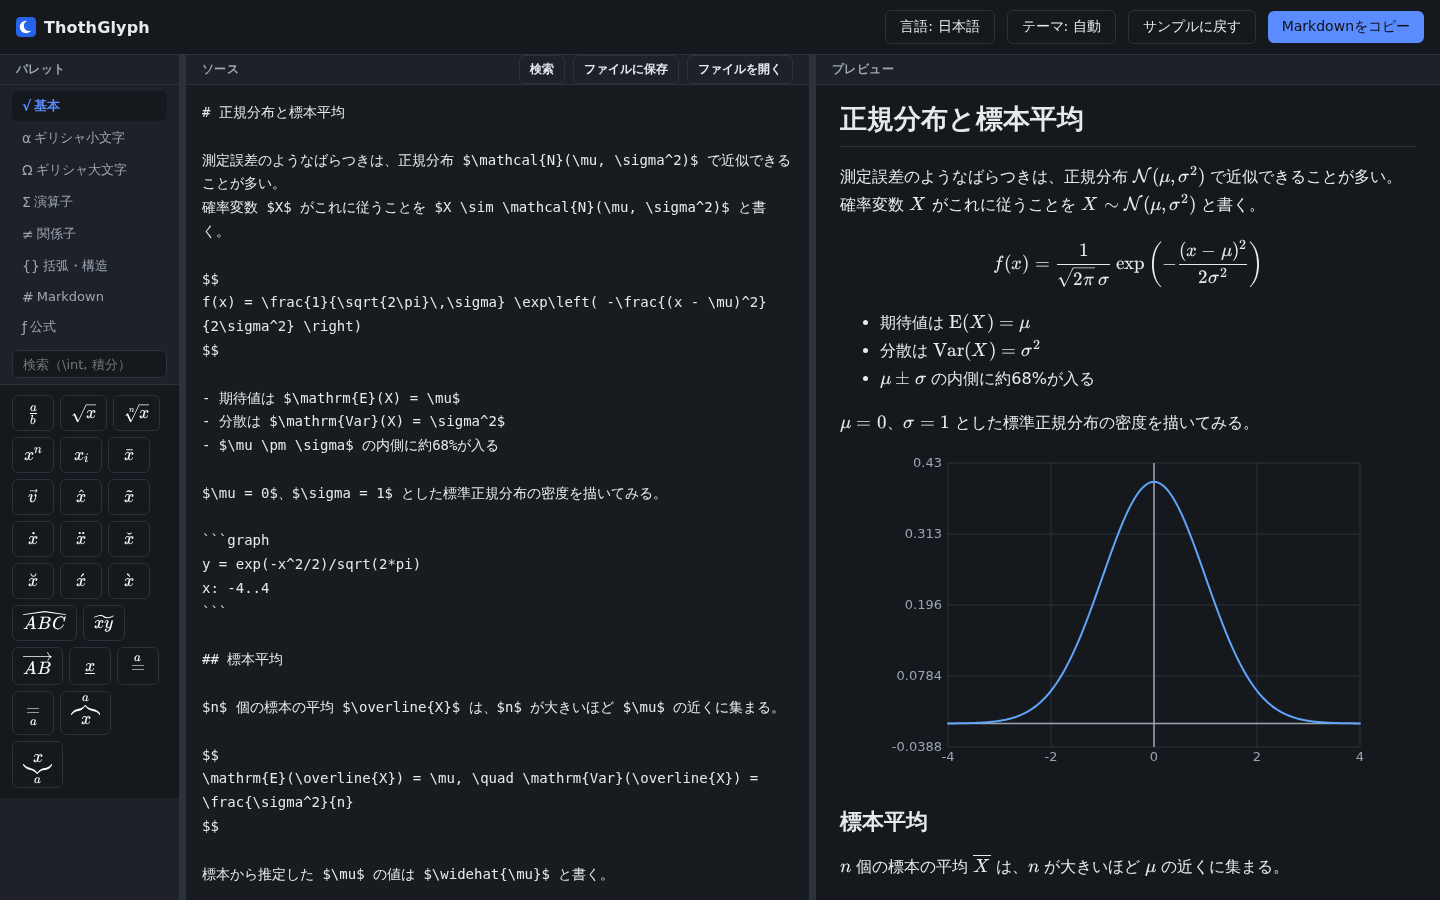
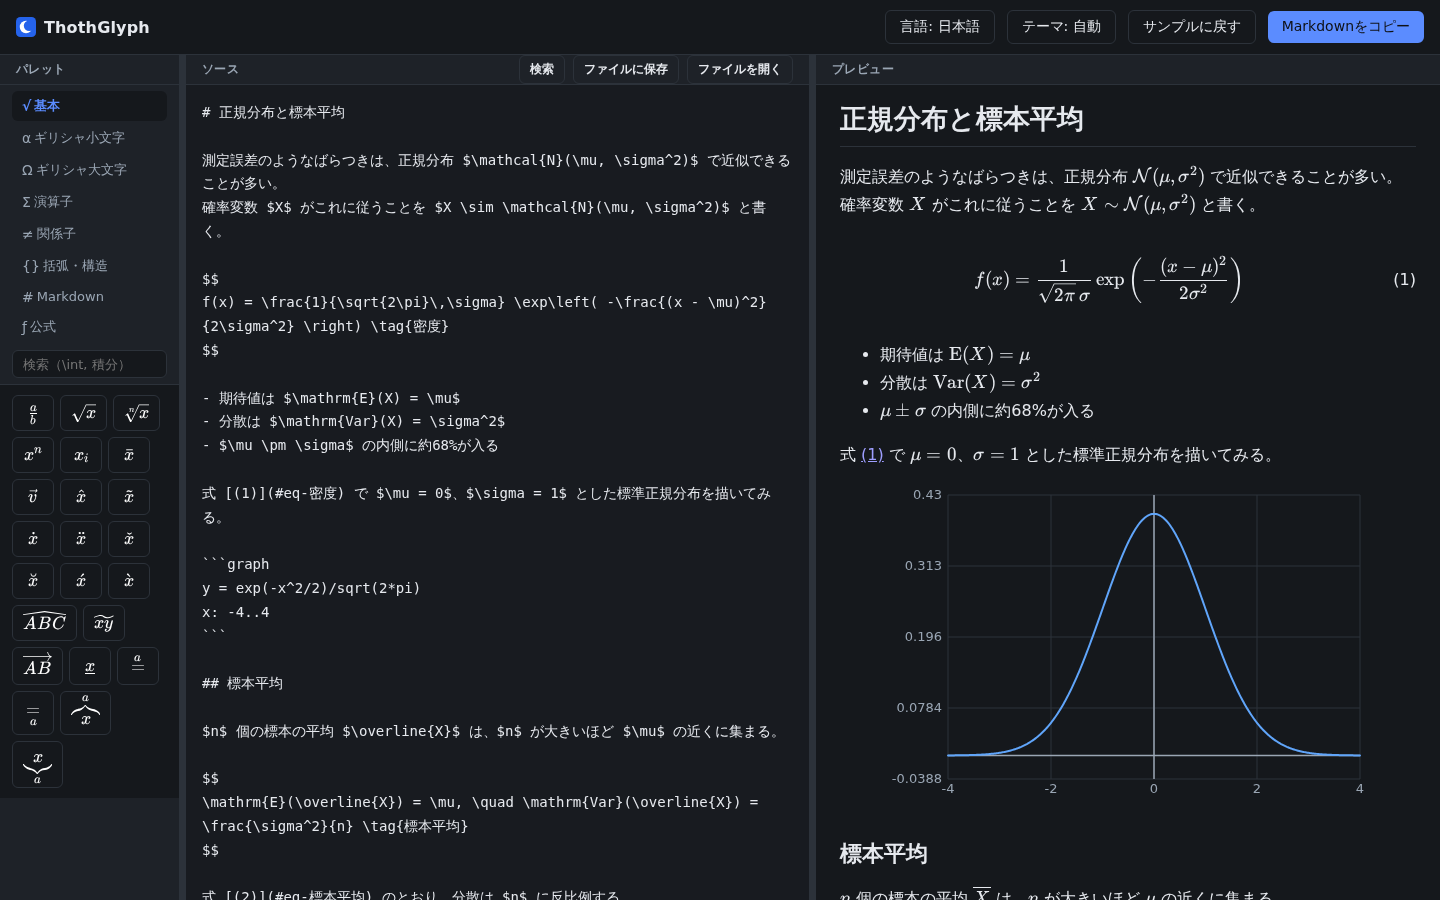
#0078 サンプル文書に式の番号と参照を入れる
0044で入れた記法はパレットから入れられない（#0077）ので、サンプルが
唯一の手本になる。既存のブロック数式2つに \tag{密度} \tag{標本平均} を
付け、すでにある2つの文を書き換えて [(1)](#eq-密度) 形式の参照を入れた
（番号のためだけの文は足さない）。日本語版のラベルを日本語にしたのは、
名前を自由に付けてよいことを見せるため。

- math-click の期待値を直した（2つ目のブロック数式に \tag が付いた）
- initial 区分に5件足した（番号2つ・参照2つ・参照をたどる・幅360px）
- verify-file-build の数式は16個から17個へ。足した文の $n$ のぶんで、
  \tag と参照そのものは数式を増やしていない
- READMEのスクリーンショット3枚を撮り直した（番号が写るのは広い2枚。
  phone.png は初期位置に式が入らない）

全494件OK。

diff --git a/src/sampleDocument.ts b/src/sampleDocument.ts
@@ -7,6 +7,9 @@ import type { Lang } from './lib/i18n'
  * 記号62→150件・公式30→75件になったのに、サンプルには0064以降に足した記号が
  * 1つも出てこなかったため。
  *
+ * 0078で式の番号（`\\tag`）と参照（`[(1)](#eq-…)`）を入れた。記法を手で書く
+ * 前提なので（パレットからは入れられない。0077）、ここが唯一の手本になる。
+ *
  * **中身を変えるときは、先頭行とファイル名に依存した検証9件を直すこと**
  * （`autosave` 3件・`i18n` 2件・`file-save` 4件）。グラフの存在を見る4件と
  * 「上のパレット」という語がないことを見る2件もあるので、**グラフは1つ入れ、
@@ -18,14 +21,14 @@ const japanese = `# 正規分布と標本平均
 確率変数 $X$ がこれに従うことを $X \\sim \\mathcal{N}(\\mu, \\sigma^2)$ と書く。
 
 $$
-f(x) = \\frac{1}{\\sqrt{2\\pi}\\,\\sigma} \\exp\\left( -\\frac{(x - \\mu)^2}{2\\sigma^2} \\right)
+f(x) = \\frac{1}{\\sqrt{2\\pi}\\,\\sigma} \\exp\\left( -\\frac{(x - \\mu)^2}{2\\sigma^2} \\right) \\tag{密度}
 $$
 
 - 期待値は $\\mathrm{E}(X) = \\mu$
 - 分散は $\\mathrm{Var}(X) = \\sigma^2$
 - $\\mu \\pm \\sigma$ の内側に約68%が入る
 
-$\\mu = 0$、$\\sigma = 1$ とした標準正規分布の密度を描いてみる。
+式 [(1)](#eq-密度) で $\\mu = 0$、$\\sigma = 1$ とした標準正規分布を描いてみる。
 
 \`\`\`graph
 y = exp(-x^2/2)/sqrt(2*pi)
@@ -37,9 +40,10 @@ x: -4..4
 $n$ 個の標本の平均 $\\overline{X}$ は、$n$ が大きいほど $\\mu$ の近くに集まる。
 
 $$
-\\mathrm{E}(\\overline{X}) = \\mu, \\quad \\mathrm{Var}(\\overline{X}) = \\frac{\\sigma^2}{n}
+\\mathrm{E}(\\overline{X}) = \\mu, \\quad \\mathrm{Var}(\\overline{X}) = \\frac{\\sigma^2}{n} \\tag{標本平均}
 $$
 
+式 [(2)](#eq-標本平均) のとおり、分散は $n$ に反比例する。
 標本から推定した $\\mu$ の値は $\\widehat{\\mu}$ と書く。
 
 パレットのボタンを押すと、カーソル位置に数式コマンドが入ります。
@@ -52,14 +56,14 @@ Spread such as measurement error is often approximated by a normal distribution 
 We write $X \\sim \\mathcal{N}(\\mu, \\sigma^2)$ to say that $X$ follows it.
 
 $$
-f(x) = \\frac{1}{\\sqrt{2\\pi}\\,\\sigma} \\exp\\left( -\\frac{(x - \\mu)^2}{2\\sigma^2} \\right)
+f(x) = \\frac{1}{\\sqrt{2\\pi}\\,\\sigma} \\exp\\left( -\\frac{(x - \\mu)^2}{2\\sigma^2} \\right) \\tag{density}
 $$
 
 - The mean is $\\mathrm{E}(X) = \\mu$
 - The variance is $\\mathrm{Var}(X) = \\sigma^2$
 - About 68% of the mass lies within $\\mu \\pm \\sigma$
 
-Here is the standard normal density, with $\\mu = 0$ and $\\sigma = 1$.
+Here is equation [(1)](#eq-density) with $\\mu = 0$ and $\\sigma = 1$.
 
 \`\`\`graph
 y = exp(-x^2/2)/sqrt(2*pi)
@@ -71,9 +75,10 @@ x: -4..4
 The mean $\\overline{X}$ of $n$ samples clusters closer to $\\mu$ as $n$ grows.
 
 $$
-\\mathrm{E}(\\overline{X}) = \\mu, \\quad \\mathrm{Var}(\\overline{X}) = \\frac{\\sigma^2}{n}
+\\mathrm{E}(\\overline{X}) = \\mu, \\quad \\mathrm{Var}(\\overline{X}) = \\frac{\\sigma^2}{n} \\tag{samplemean}
 $$
 
+As [(2)](#eq-samplemean) shows, the variance is inversely proportional to $n$.
 An estimate of $\\mu$ from a sample is written $\\widehat{\\mu}$.
 
 Press a palette button to insert a command at the cursor.

diff --git a/dist-file/app.js b/dist-file/app.js
@@ -344,14 +344,14 @@ Please report this to https://github.com/markedjs/marked.`,e){let e=`<p>An error
 確率変数 $X$ がこれに従うことを $X \\sim \\mathcal{N}(\\mu, \\sigma^2)$ と書く。
 
 $$
-f(x) = \\frac{1}{\\sqrt{2\\pi}\\,\\sigma} \\exp\\left( -\\frac{(x - \\mu)^2}{2\\sigma^2} \\right)
+f(x) = \\frac{1}{\\sqrt{2\\pi}\\,\\sigma} \\exp\\left( -\\frac{(x - \\mu)^2}{2\\sigma^2} \\right) \\tag{密度}
 $$
 
 - 期待値は $\\mathrm{E}(X) = \\mu$
 - 分散は $\\mathrm{Var}(X) = \\sigma^2$
 - $\\mu \\pm \\sigma$ の内側に約68%が入る
 
-$\\mu = 0$、$\\sigma = 1$ とした標準正規分布の密度を描いてみる。
+式 [(1)](#eq-密度) で $\\mu = 0$、$\\sigma = 1$ とした標準正規分布を描いてみる。
 
 \`\`\`graph
 y = exp(-x^2/2)/sqrt(2*pi)
@@ -363,9 +363,10 @@ x: -4..4
 $n$ 個の標本の平均 $\\overline{X}$ は、$n$ が大きいほど $\\mu$ の近くに集まる。
 
 $$
-\\mathrm{E}(\\overline{X}) = \\mu, \\quad \\mathrm{Var}(\\overline{X}) = \\frac{\\sigma^2}{n}
+\\mathrm{E}(\\overline{X}) = \\mu, \\quad \\mathrm{Var}(\\overline{X}) = \\frac{\\sigma^2}{n} \\tag{標本平均}
 $$
 
+式 [(2)](#eq-標本平均) のとおり、分散は $n$ に反比例する。
 標本から推定した $\\mu$ の値は $\\widehat{\\mu}$ と書く。
 
 パレットのボタンを押すと、カーソル位置に数式コマンドが入ります。
@@ -375,14 +376,14 @@ Spread such as measurement error is often approximated by a normal distribution 
 We write $X \\sim \\mathcal{N}(\\mu, \\sigma^2)$ to say that $X$ follows it.
 
 $$
-f(x) = \\frac{1}{\\sqrt{2\\pi}\\,\\sigma} \\exp\\left( -\\frac{(x - \\mu)^2}{2\\sigma^2} \\right)
+f(x) = \\frac{1}{\\sqrt{2\\pi}\\,\\sigma} \\exp\\left( -\\frac{(x - \\mu)^2}{2\\sigma^2} \\right) \\tag{density}
 $$
 
 - The mean is $\\mathrm{E}(X) = \\mu$
 - The variance is $\\mathrm{Var}(X) = \\sigma^2$
 - About 68% of the mass lies within $\\mu \\pm \\sigma$
 
-Here is the standard normal density, with $\\mu = 0$ and $\\sigma = 1$.
+Here is equation [(1)](#eq-density) with $\\mu = 0$ and $\\sigma = 1$.
 
 \`\`\`graph
 y = exp(-x^2/2)/sqrt(2*pi)
@@ -394,9 +395,10 @@ x: -4..4
 The mean $\\overline{X}$ of $n$ samples clusters closer to $\\mu$ as $n$ grows.
 
 $$
-\\mathrm{E}(\\overline{X}) = \\mu, \\quad \\mathrm{Var}(\\overline{X}) = \\frac{\\sigma^2}{n}
+\\mathrm{E}(\\overline{X}) = \\mu, \\quad \\mathrm{Var}(\\overline{X}) = \\frac{\\sigma^2}{n} \\tag{samplemean}
 $$
 
+As [(2)](#eq-samplemean) shows, the variance is inversely proportional to $n$.
 An estimate of $\\mu$ from a sample is written $\\widehat{\\mu}$.
 
 Press a palette button to insert a command at the cursor.

diff --git a/docs/specs/0078-sample-equation-numbers.md b/docs/specs/0078-sample-equation-numbers.md
@@ -1,7 +1,7 @@
 # 0078: サンプル文書に式の番号と参照を入れる
 
 - 対応issue: [0078](../issues/0078-sample-equation-numbers.md)
-- 状態: approved
+- 状態: implemented
 - 作成日: 2026-09-22
 
 ## 目的
@@ -78,6 +78,14 @@
 **日本語版のラベルを日本語にするのは意図的**で、「ラベルに日本語が使える」ことを
 手本として見せるため（0044の検証で実測済み）。英語版は英語のラベルにする。
 
+**参照の文は書きながら直した。** 上の diff の
+「式 [(2)](#eq-標本平均) の分散は $n$ が大きいほど小さい。」は、直前の
+「$n$ が大きいほど $\mu$ の近くに集まる」と言い回しが重なるので、
+**「式 [(2)](#eq-標本平均) のとおり、分散は $n$ に反比例する。」**にした
+（$\sigma^2/n$ なので事実としても正確）。英語版も同じ理由で
+**「As [(2)](#eq-samplemean) shows, the variance is inversely proportional to $n$.」**
+にしている。
+
 ### 直すもの
 
 - **`math-click` の1件**が、サンプルの2つ目のブロック数式の中身を
@@ -103,29 +111,41 @@
 - **`verify-file-build.mjs` の「数式16個」は変わらない**見込み（`\tag` は
   既存の数式に足すだけで、参照はリンク）。実装して確かめる。
 
+### 実装して分かったこと
+
+- **数式は16個から17個に増えた。** 前提が崩れた理由は `\tag` でも参照でもなく、
+  足した文の中の `$n$`（「分散は $n$ に反比例する」）。**本文を足せば
+  その中の数式も増える**という当たり前のことを、`\tag` と参照だけを見て
+  見落としていた。`verify-file-build.mjs` の期待値を17に直した。
+- 番号が付いても幅360pxで式と番号は重ならず（間隔16px）、横スクロールも
+  出ない。既存の `initial` `layout` への影響もなかった。
+
 ## 受け入れ基準
 
 **実機検証（`node scripts/verify-ui.mjs`）**
 
-- [ ] 初回訪問のプレビューに番号が2つ出て、上から `(1)` `(2)` である
-- [ ] 初回訪問のプレビューに `#eq-` へのリンクが2つあり、リンク先が
+- [x] 初回訪問のプレビューに番号が2つ出て、上から `(1)` `(2)` である
+- [x] 初回訪問のプレビューに `#eq-` へのリンクが2つあり、リンク先が
       `#eq-1` `#eq-2`、文字列が `(1)` `(2)` である
-- [ ] サンプルの参照をクリックすると、その式へ移動して輪郭が出る
-- [ ] `math-click` の全件が通る（2つ目のブロック数式の期待値を直したうえで）
-- [ ] 英語表示に切り替えたサンプルでも番号が2つ出て、リンク先が `#eq-1` `#eq-2`
-- [ ] 幅360pxで、サンプルの番号付きの式と番号が重ならず、横スクロールも増えない
-- [ ] `node scripts/verify-ui.mjs` の全区分が通る（489件 + 今回ぶん）
-- [ ] `node scripts/verify-file-build.mjs` が通る（数式16個のまま）
+- [x] サンプルの参照をクリックすると、その式へ移動して輪郭が出る
+- [x] `math-click` の全件が通る（2つ目のブロック数式の期待値を直したうえで）
+- [x] 英語表示に切り替えたサンプルでも番号が2つ出て、リンク先が `#eq-1` `#eq-2`
+- [x] 幅360pxで、サンプルの番号付きの式と番号が重ならず、横スクロールも増えない
+- [x] `node scripts/verify-ui.mjs` の全区分が通る（494件）
+- [x] `node scripts/verify-file-build.mjs` が通る（**数式は17個に増えた**。上を見よ）
 
 **目で見るもの**
 
-- [ ] READMEのスクリーンショット3枚を撮り直し、**番号が写っている**ことを
-      画像で確かめる
+- [x] READMEのスクリーンショット3枚を撮り直し、**広い2枚（ライト・ダーク）に
+      番号 `(1)` と参照のリンク `(1)` が写っている**ことを画像で確かめる
+      （**3枚とも、から書き換えた**。`phone.png` は幅360pxの初期位置を撮るので、
+      1つ目の式が画面より下にあり写らない。0078の前から同じ構図で、
+      サンプルを変えても変わらない）
 
 **前提**
 
-- [ ] `npm run build` と `npm test` と `npm run lint` が通る
-- [ ] `npm run build:file` の結果（`dist-file/`）を同じコミットに入れる
+- [x] `npm run build` と `npm test` と `npm run lint` が通る
+- [x] `npm run build:file` の結果（`dist-file/`）を同じコミットに入れる
 
 ## 検討したが採らなかった案
 

diff --git a/docs/token-usage.md b/docs/token-usage.md
@@ -465,3 +465,30 @@ issueには「実害は表示だけ」と書いてあったが、原因を読ん
 (2) 参照と飛び先を詰めて置いたのでプレビューがスクロールせず「飛ぶ」ことを
 観測できなかった（0 → 0）。**受け入れ基準の「どう測るか」は仕様の時点では
 確かめられていない**という0020の所感が、そのまま2件目でも出ている。
+
+---
+
+0078は約1694万（やり取り51回）。**同じセッションの3件目**だが、0044
+（約2685万・103回）の6割で済んでいる。1往復あたりは約33万で0044の約26万より
+高いが、**やり取りの回数が半分**なので総量は下がった。
+直前の2件（0020・0044）で作った土台の上に、サンプル文書を数行変えるだけの
+issueだったため。**隣接するissueを続けると往復が減る**（0055・0056と同じ形）。
+
+この区間で払ったのは**波及の洗い出し**。着手前に
+「サンプル文書に依存する検証」をgrepで洗い、`math-click` の1件が
+2つ目のブロック数式の中身を文字列で期待していることを見つけている。
+仕様にそれを書いておいたので、実装後の修正は1箇所で済んだ。
+
+**それでも2つ取りこぼした。** どちらも仕様の「未確認の前提」に書いた
+見込みが外れたもの。
+
+- **数式が16個から17個に増えた。** `\tag` と参照だけを見て「数式の数は
+  変わらない」と書いたが、**足した文の中の `$n$`** が数えられた。
+  本文を足せばその中の数式も増える、という当たり前のことを見落としている。
+- **`phone.png` には番号が写らない。** 幅360pxの初期位置を撮るので、
+  1つ目の式が画面より下にある。「3枚とも番号が写っていること」を
+  基準に書いたが、撮る構図を確かめていなかった。
+
+どちらも**基準を書く前に一度撮る・数える**だけで防げた。0020・0044で出た
+「受け入れ基準の測り方は仕様の時点では確かめられていない」が、3件連続で
+同じ形で出ている。

diff --git a/docs/issues/README.md b/docs/issues/README.md
@@ -87,7 +87,7 @@
 | [0075](0075-lint-dist-file.md) | lintがビルド出力を見て1538件の警告を出す | open | — |
 | [0076](0076-block-math-perf.md) | ブロック数式の多い文書で入力が基準の50msを超える | open | — |
 | [0077](0077-palette-tag.md) | パレットから式の番号（`\tag`）を入れられない | open | — |
-| [0078](0078-sample-equation-numbers.md) | サンプル文書に式の番号と参照が出てこない | in-progress | [仕様](../specs/0078-sample-equation-numbers.md) |
+| [0078](0078-sample-equation-numbers.md) | サンプル文書に式の番号と参照が出てこない | closed | [仕様](../specs/0078-sample-equation-numbers.md) |
 
 ## 着手順の目安
 

diff --git a/docs/functional-spec.md b/docs/functional-spec.md
@@ -158,6 +158,9 @@
 
 ### 式に番号を振って参照する（[0044](specs/0044-equation-numbers.md)）
 
+**初回訪問のサンプル文書に書き方の見本が入っている**
+（[0078](specs/0078-sample-equation-numbers.md)）。
+
 **番号を振りたい式に `\tag{名前}` と書く。** 書いた式だけが、文書の上から
 順に `(1)` `(2)` … と番号を振られる。書いていない式には番号が付かない。
 

diff --git a/docs/issues/0078-sample-equation-numbers.md b/docs/issues/0078-sample-equation-numbers.md
@@ -1,6 +1,6 @@
 # 0078: サンプル文書に式の番号と参照が出てこない
 
-- 状態: in-progress
+- 状態: closed
 - 起票日: 2026-09-22
 
 ## 背景
